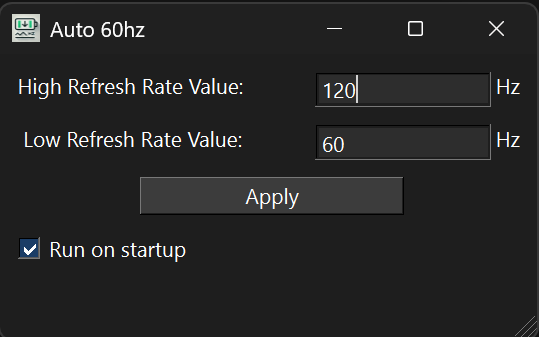
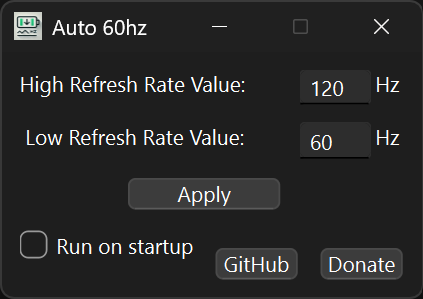
Minor UI updates

diff --git a/auto60hz-ui/mainwindow.cpp b/auto60hz-ui/mainwindow.cpp
@@ -8,14 +8,16 @@ MainWindow::MainWindow(QWidget *parent)
 {
     ui->setupUi(this);
     setWindowTitle("Auto 60hz");
-
+    setFixedSize(240, 140);
     // Tray Icon Setup
     setupTrayIcon();
 
     connect(ui->apply, &QPushButton::clicked, this, &MainWindow::onApplyClicked);
     connect(ui->startup, &QCheckBox::toggled, this, &MainWindow::startupCheckboxChanged);
-    loadSettings();
+    connect(ui->donate, &QPushButton::clicked, this, &MainWindow::onDonateClicked);
+    connect(ui->github, &QPushButton::clicked, this, &MainWindow::onGithubClicked);
 
+    loadSettings();
 }
 
 MainWindow::~MainWindow()
@@ -77,6 +79,15 @@ void MainWindow::onApplyClicked()
     ui->apply->setEnabled(true);
 }
 
+void MainWindow::onDonateClicked()
+{
+    QDesktopServices::openUrl(QUrl("https://www.paypal.com/donate/?business=5FM6Y27A3CK58&no_recurring=0&currency_code=USD"));
+}
+
+void MainWindow::onGithubClicked()
+{
+    QDesktopServices::openUrl(QUrl("https://www.github.com/mehtabmahir"));
+}
 
 void MainWindow::saveSettings(int high, int low)
 {

diff --git a/auto60hz-ui/mainwindow.h b/auto60hz-ui/mainwindow.h
@@ -8,6 +8,8 @@
 #include <QSystemTrayIcon>
 #include <QMenu>
 #include <QProcess>
+#include <QDesktopServices>
+#include <QUrl>
 
 QT_BEGIN_NAMESPACE
 namespace Ui {
@@ -31,6 +33,8 @@ protected:
 
 private slots:
     void onApplyClicked();
+    void onDonateClicked();
+    void onGithubClicked();
     void saveSettings(int high, int low);
     void loadSettings();
     void endThread();
